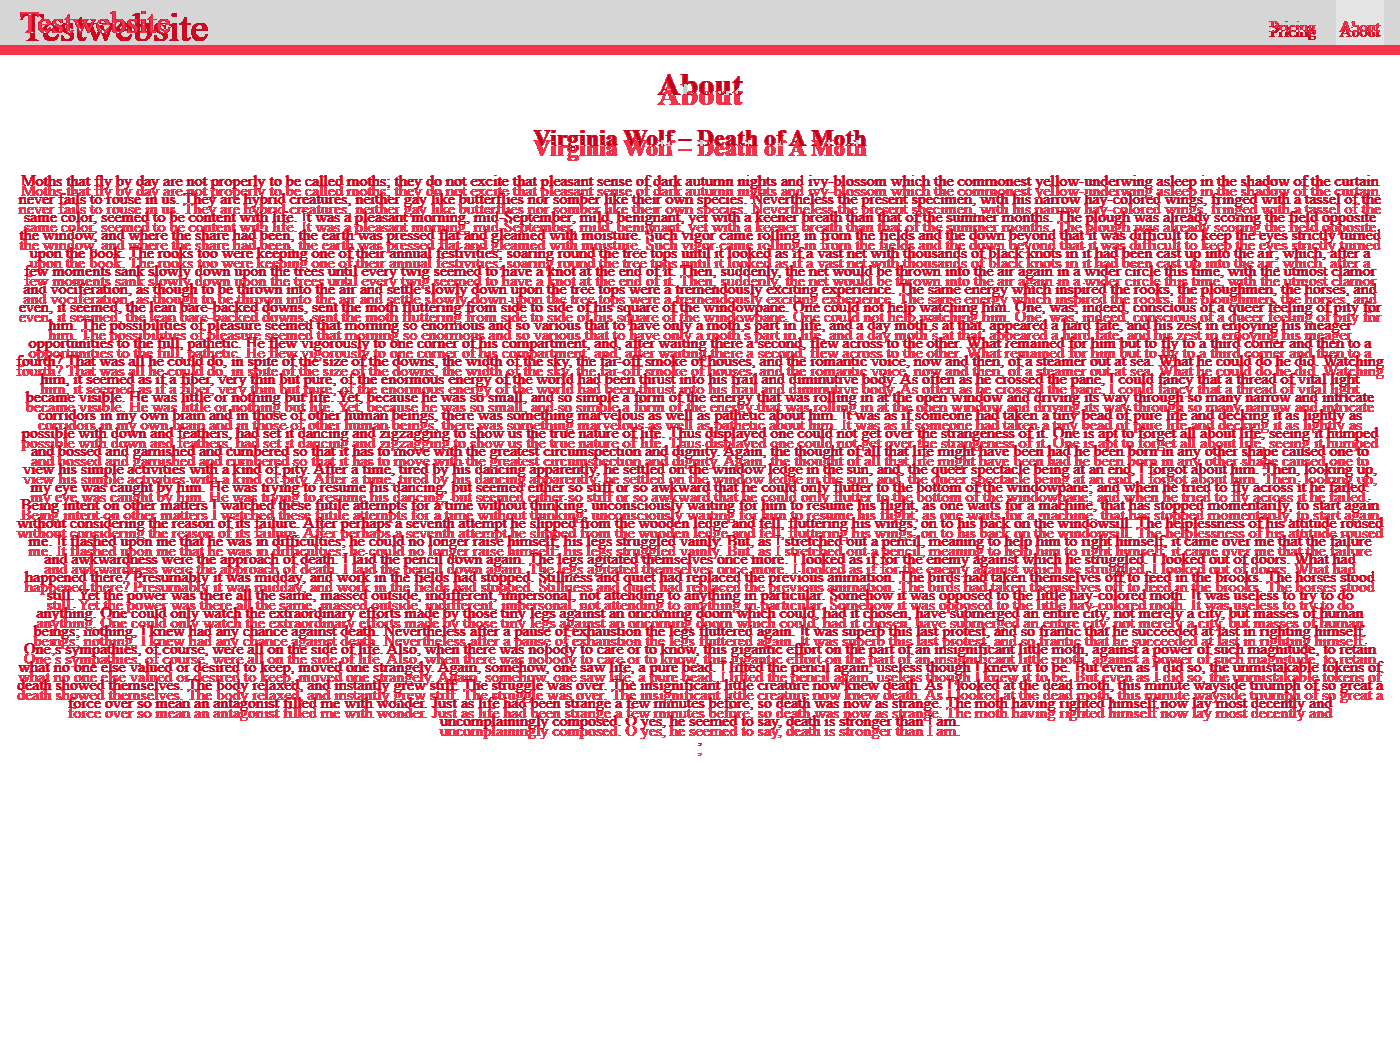
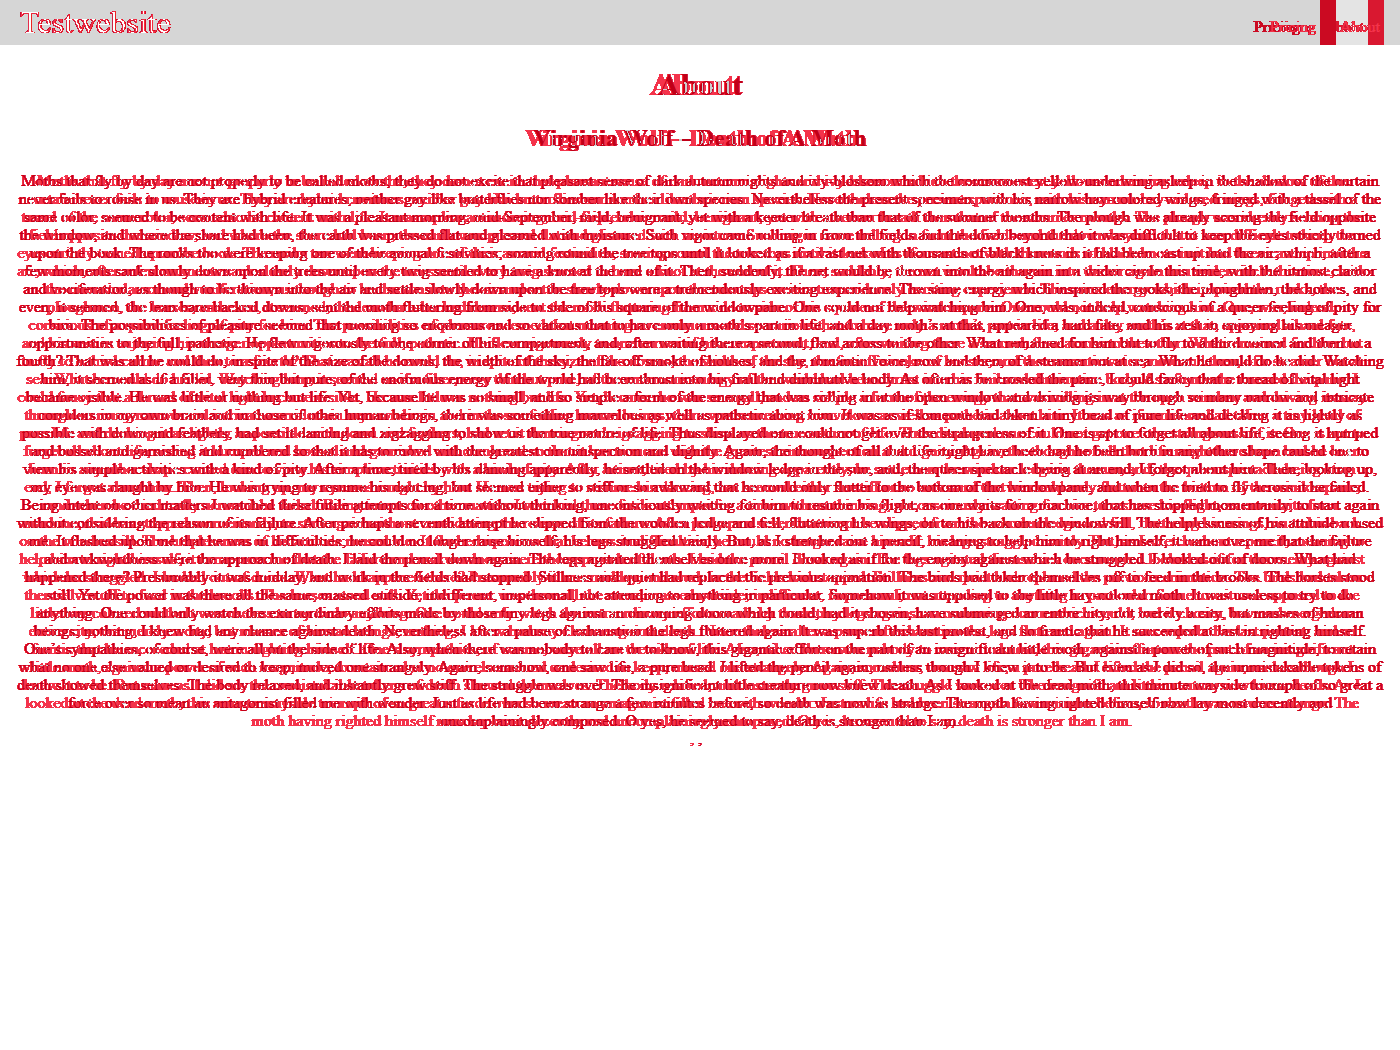
---Visual Regression Test mit mehreren Groessen klappt---

Changed region(s): [[0.0, 0.0, 1.0, 0.701]]

diff --git a/src/main.py b/src/main.py
@@ -36,59 +36,57 @@ basePricingPage = './compImages/PricingRef.png'
 baseAboutPage = './compImages/AboutRef.png'
 baseHomePage = './compImages/HomeRef.png'
 #driver = webdriver.Chrome()
-driver.set_window_size(1400, 1050)
+#driver.set_window_size(1400, 1050)
 #url = "http://localhost:3000" #local
 url = "https://pmafynn.github.io/BA_v1/"
 driver.get(url) #local als auch 'on your network' funktioniert beides
 #PATH = "C:\Devlopment\SeleniumDrivers\chromedriver.exe"
 #es gibt mehrere driver, also cross browser testing maybe moeglich
-def screenshotPricing():
-    refImage = basePricingPage
+
+def screenshotPricing(width, height):
+    refImage = f'{imagePath}PricingRef.png'
     driver.implicitly_wait(3)
-    time.sleep(0.5)
     pricing = driver.find_element("id" , "1234")
     pricing.click()
-    driver.save_screenshot('./compImages/PricingComp.png')
-    compImage = './compImages/PricingComp.png' #muss bei erfolg zu neuem global ref image werden
+    driver.save_screenshot(f'{imagePath}PricingComp{width}{height}.png')
+    compImage = f'{imagePath}PricingComp{width}{height}.png' #muss bei erfolg zu neuem global ref image werden
     id = 'Pricing'
-    test1 = compareScreenshot(compImage, refImage, id)
+    test1 = compareScreenshot(compImage, refImage, id, width, height)
     #print(test1)
     if test1 == True: 
         return True
     else:
         return False
 
-def screenshotHome():
-    refImage = baseHomePage
+def screenshotHome(width, height):
+    refImage = f'{imagePath}HomeRef.png'
     driver.implicitly_wait(3)
-    time.sleep(0.5)
-    driver.save_screenshot('./compImages/HomeComp.png')
-    compImage = './compImages/HomeComp.png' #muss bei erfolg zu neuem global ref image werden
+    driver.save_screenshot(f'{imagePath}HomeComp{width}{height}.png')
+    compImage = f'{imagePath}HomeComp{width}{height}.png' #muss bei erfolg zu neuem global ref image werden
     id = 'Home'
-    test1 = compareScreenshot(compImage, refImage, id)
+    test1 = compareScreenshot(compImage, refImage, id, width, height)
     #print(test1)
     if test1 == True: 
         return True
     else:
         return False
 
-def screenshotAbout():
-    refImage = baseAboutPage
+def screenshotAbout(width, height):
+    refImage = f'{imagePath}AboutRef.png'
     driver.implicitly_wait(3)
-    time.sleep(0.5)
     about = driver.find_element("id" , "12345")
     about.click()
-    driver.save_screenshot('./compImages/AboutComp.png')
-    compImage = './compImages/AboutComp.png' #muss bei erfolg zu neuem global ref image werden
+    driver.save_screenshot(f'{imagePath}AboutComp{width}{height}.png')
+    compImage = f'{imagePath}AboutComp{width}{height}.png' #muss bei erfolg zu neuem global ref image werden
     id = 'About'
-    test1 = compareScreenshot(compImage, refImage, id)
+    test1 = compareScreenshot(compImage, refImage, id, width, height)
     #print(test1)
     if test1 == True: 
         return True
     else:
         return False
 
-def compareScreenshot(compImage, refImage, id):
+def compareScreenshot(compImage, refImage, id, width, height):
     with Image(filename=refImage) as base:
         with Image(filename=compImage) as img:
             base.fuzz = base.quantum_range * 0  # Threshold of 20%
@@ -100,7 +98,7 @@ def compareScreenshot(compImage, refImage, id):
     if result_metric == 1.0:
         return True
     else:
-        result_image.save(filename=(f'{imagePath}diffImage{id}.png'))
+        result_image.save(filename=(f'{imagePath}diffImage{id}{width}{height}.png'))
         return False
  
 def takeNewRefImages():
@@ -113,15 +111,16 @@ def takeNewRefImages():
     pricing.click()
     driver.save_screenshot('./compImages/PricingRef.png')
 
-def main():
-    sH = screenshotHome()
-    sP = screenshotPricing()
-    sA = screenshotAbout()
+def main(width, height):
+    driver.set_window_size(width, height)
+    sH = screenshotHome(width, height)
+    sP = screenshotPricing(width, height)
+    sA = screenshotAbout(width, height)
     if sA and sP and sH == True:
         #print(True)
         return True
     else:
-        print("Visual Regression Test failed. Reverting to last commit suggested to fix it")
+        print("Visual Regression Test for", width, height, "failed. Reverting to last commit suggested to fix it")
         return False
 
 

diff --git a/src/test_main.py b/src/test_main.py
@@ -1,6 +1,5 @@
 from main import main
 
 #test function 
-def test_main():
-    assert main() == True
-#main()
+def test_14001050():
+    assert main(1400, 1050) == True
